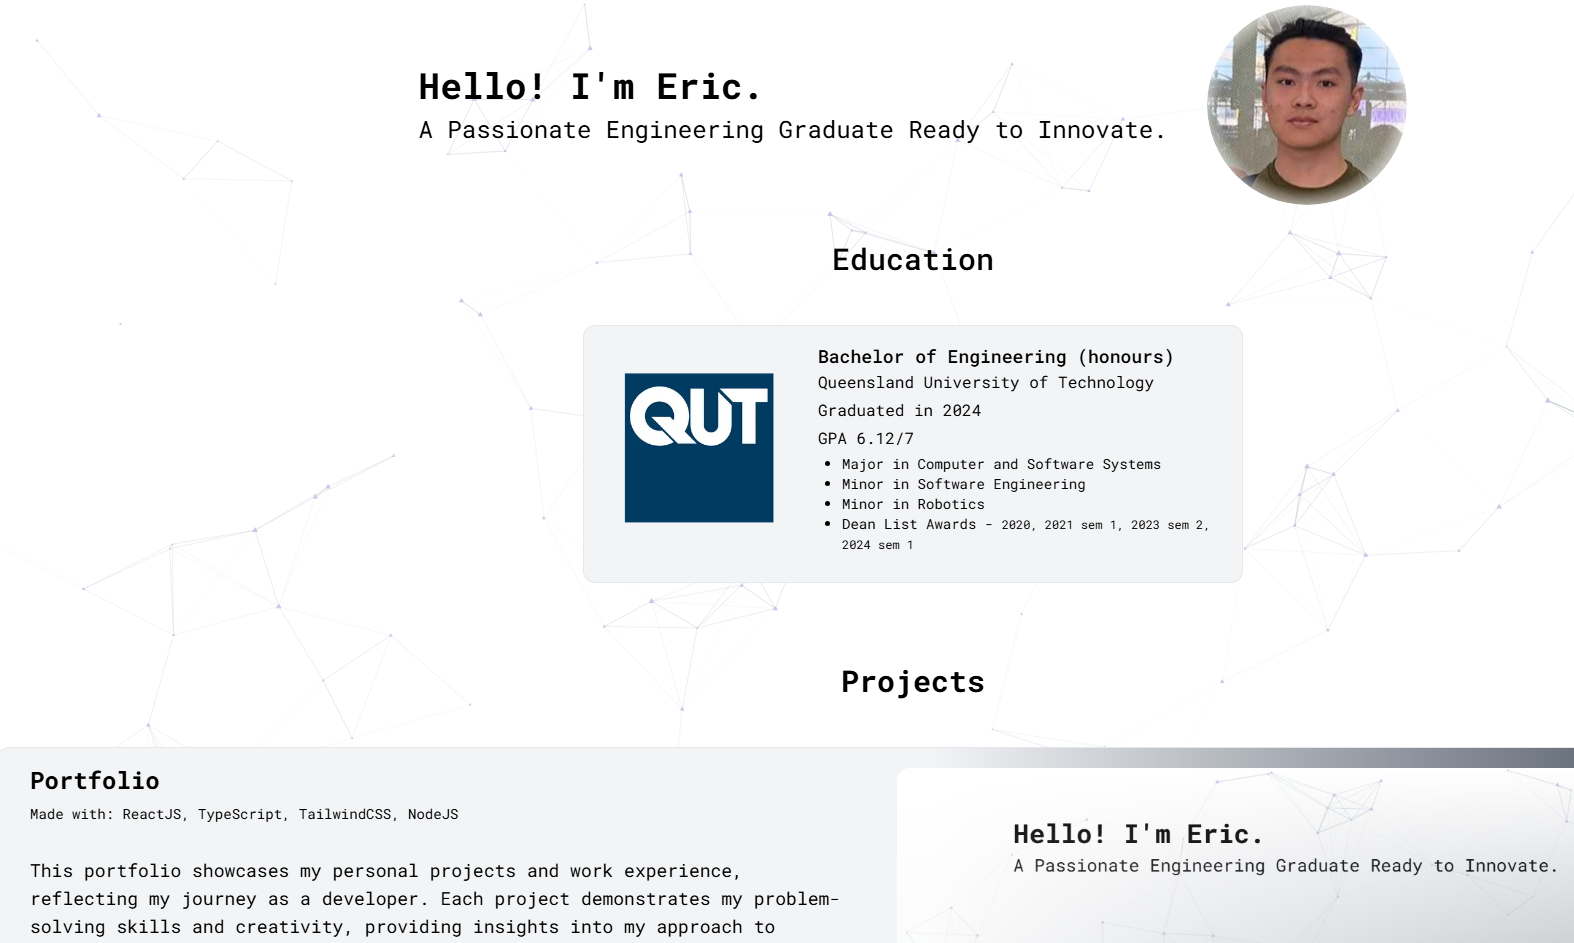
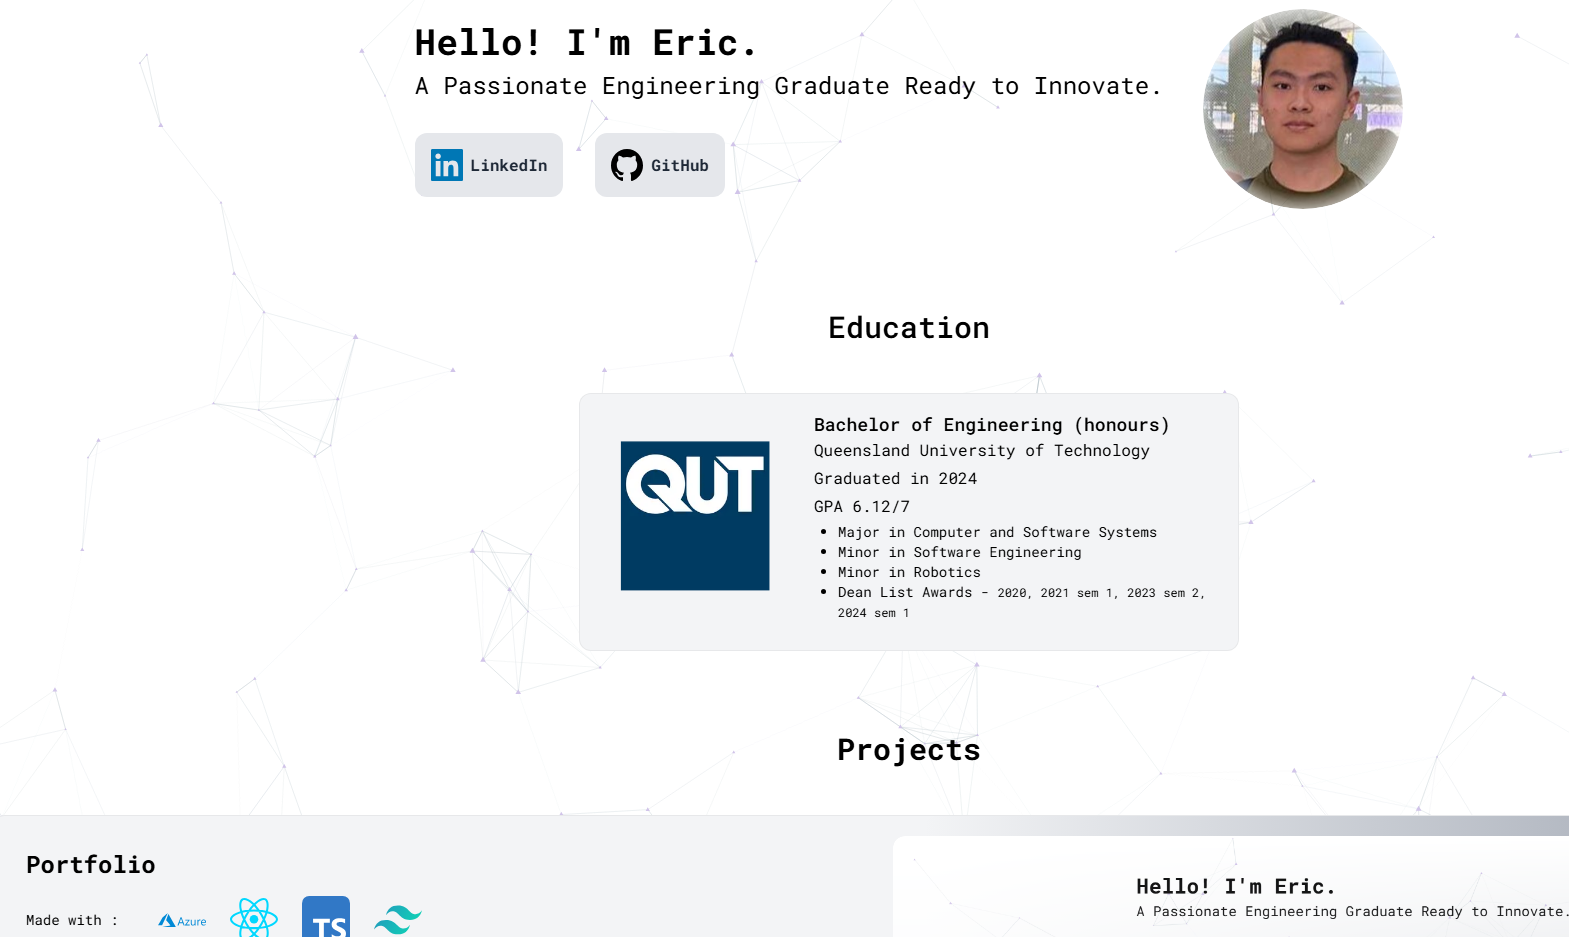
First draft

diff --git a/src/sub-sections/Header.tsx b/src/sub-sections/Header.tsx
@@ -1,8 +1,8 @@
 import profile from "../assets/profile.jpg"
 import LinkedIn from "../assets/linkedin.svg"
 import GitHub from "../assets/Projects/github.svg";
-import React from "react";
 const LinkedInLink = "https://www.linkedin.com/in/enhm29"
+const GithubLink = "https://github.com/EricNG01"
 
 const InfoHeader = () => {
     return (
@@ -11,7 +11,7 @@ const InfoHeader = () => {
                 <div className="flex flex-col">
                     <h1 className="text-4xl font-bold">Hello! I'm Eric.</h1>
                     <h2 className="mt-2 text-2xl mb-4">A Passionate Engineering Graduate Ready to Innovate.</h2>
-                    <div className={"flex items-center content-start mt-4"}>
+                    <div className={"flex items-center content-start mt-4 space-x-8"}>
                         <a
                             href={LinkedInLink}
                             target="_blank"
@@ -20,6 +20,16 @@ const InfoHeader = () => {
                         >
                             <img src={LinkedIn} alt={"LinkedInLink"} className={"w-8 h-8 content-center"}></img>
                             <span className={"content-center font-semibold"}>LinkedIn</span>
+                        </a>
+
+                        <a
+                            href={GithubLink}
+                            target="_blank"
+                            rel="noopener noreferrer"
+                            className="flex flex-row gap-2 rounded-xl bg-gray-200 px-4 py-4 text-gray-800 transition duration-200 hover:scale-110 hover:invert"
+                        >
+                            <img src={GitHub} alt={"GitHub"} className={"w-8 h-8 content-center"}></img>
+                            <span className={"content-center font-semibold"}>GitHub</span>
                         </a>
                     </div>
                 </div>

diff --git a/src/sub-sections/Project.tsx b/src/sub-sections/Project.tsx
@@ -21,8 +21,8 @@ const projects = [
             "This portfolio showcases my personal projects and work experience, reflecting my journey as a developer. Each project demonstrates my problem-solving skills and creativity, providing insights into my approach to software development and design. The collection highlights my growth and commitment to delivering quality work while continuously learning and evolving in the field.",
         imageSrc: portfolioProject,
         altText: "portfolioProject",
-        demoLink: "https://yourportfolio.com",
-        githubLink: "https://github.com/yourusername/portfolio",
+        demoLink: "https://jolly-sand-035912100.5.azurestaticapps.net",
+        githubLink: "https://github.com/EricNG01/portfolio-website",
     },
     {
         title: "Movie Info Application",
@@ -31,7 +31,7 @@ const projects = [
             "The Movie Review Application is a full-stack web application built with React.js and Express.js, utilizing RESTful APIs such as OMDb, YouTube, and the New York Times to deliver detailed movie information, including reviews and trailers. It features a dynamic movie search function, is containerized with Docker for scalable deployment on Amazon AWS, and employs Amazon S3 and Redis for real-time visitor tracking. The project achieved a band score of 6 out of 7, showcasing its quality and functionality.",
         imageSrc: movieApp,
         altText: "movieApp",
-        githubLink: "https://github.com/yourusername/portfolio",
+        githubLink: "https://github.com/EricNG01/movieapp",
     },
     {
         title: "Marvel Soccer Team",

diff --git a/src/components/ProjectCard.tsx b/src/components/ProjectCard.tsx
@@ -25,11 +25,11 @@ const ProjectCard: React.FC<ProjectData> = ({
         <div className="mb-10 grid gap-8 overflow-hidden rounded-xl border max-lg:border-none border-black/5 bg-gray-100 max-lg:bg-gradient-to-br max-lg:from-gray-300 max-lg:to-gray-50 lg:relative lg:grid-cols-2">
             <div className="pt-8 pr-10 pb-20 pl-8 text-left">
                 <p className={"text-2xl font-semibold pb-2"}>{title}</p>
-                <p className={"text-sm pb-4 flex gap-2 pr-2 min-[600px]:gap-6"}>
+                <p className={"text-sm pb-4 flex gap-2 pr-2 min-[600px]:gap-8 mt-2"}>
                     <p className={"content-center text-nowrap"}>Made with :</p>
-                    <span className={"flex min-[600px]:gap-4 gap-2"}>
+                    <span className={"flex min-[600px]:gap-6 gap-4 pl-2"}>
                         {techStack.map((tech, index) => (
-                            <img key={index} src={tech} alt={`Tech icon ${index}`} className="h-12 w-12"/>
+                            <img key={index} src={tech} alt={`Tech icon ${index}`} className="h-12 w-12 min-[600px]:hover:scale-150 transition"/>
                         ))}
                     </span>
                 </p>
